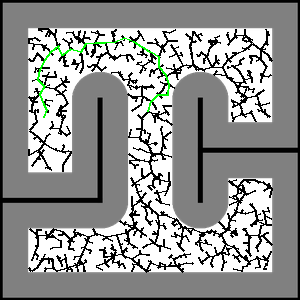
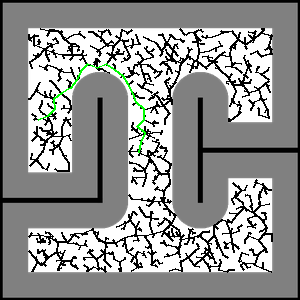
edit

Changed region(s): [[0.09, 0.09, 0.93, 0.93]]

diff --git a/finalproject.py b/finalproject.py
@@ -108,7 +108,9 @@ class Run:
                     for i in range(int(len(self.path) / 10)):
                         g_x = (self.path[i].state[0] / 100.0)
                         g_y = (self.map.height - self.path[i].state[1]) / 100.0
-
+                        old_x = self.odometry.x
+                        old_y = self.odometry.y
+                        old_theta = self.odometry.theta
                         while True:
                             state = self.create.update()
                             if state is not None:
@@ -122,7 +124,8 @@ class Run:
                                 d = math.sqrt(math.pow(g_x - self.odometry.x, 2) + math.pow(g_y - self.odometry.y, 2))
                                 if d < 0.05:
                                     break
-                    
+                        self.pf.move_by(self.odometry.x - old_x, self.odometry.y - old_y, self.odometry.theta - old_theta)
+
                     self.mode = Mode.Localize
                     start = self.create.sim_get_position()
                     current_position = (start[0], start[1])
